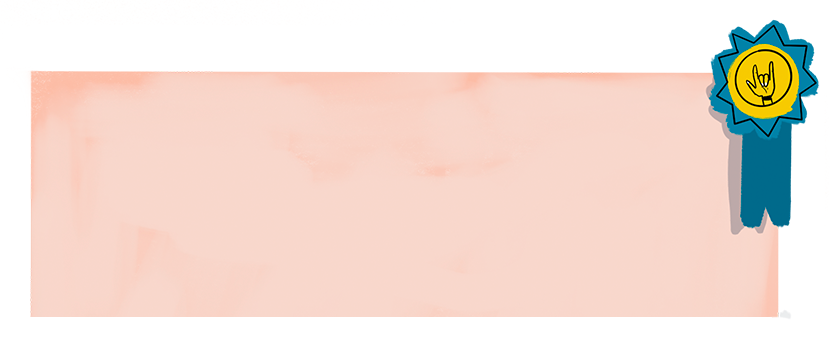
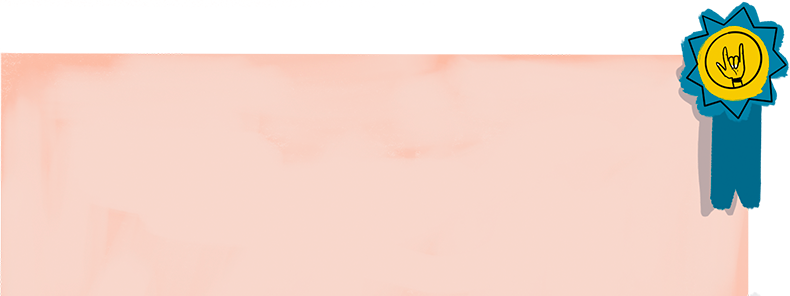
background Contribuciones

Changed region(s): [[0.0, 0.0, 1.0, 1.0]]

diff --git a/index.html b/index.html
@@ -181,9 +181,9 @@
     <section class="banner banner--contribuciones">
         <div class="banner__container">
             <p class="banner__title">Contribuciones</p>
-            <div class="banner__block banner--contribuciones__block banner--contibuciones__bg__img">
+            <div class="banner__block banner--contribuciones__block banner--contibuciones__bg">
                 <div class="" id="contibuciones-row">
-                    <div class="banner__paragraph font-12" id="contribuciones-paragraph1">
+                    <div class="banner__paragraph" id="contribuciones-paragraph1">
                         <p><span class="bold font-14">Kevin</span></p>
                         <ul>
                             <li>Voluntariado en DrupalCon Nashville</li>
@@ -215,7 +215,7 @@
                                 </ul>
                             </ul>
                     </div>
-                    <div class="banner__paragraph font-12" id="contribuciones-paragraph2">
+                    <div class="banner__paragraph" id="contribuciones-paragraph2">
                         <p><span class="bold font-14">Keren</span></p>
                         <ul>
                             <li>Contribución completando perfiles de mujeres costarricenses en política en Wikipedia.</li>
@@ -240,7 +240,7 @@
                             <li>Humpback-docs</li>
                         </ul>
                     </div>
-                    </div>
+                </div>
             </div>
         </div>
     </section>

diff --git a/css/style.css b/css/style.css
@@ -44,6 +44,19 @@
     .banner--clientes__logos{
         padding-bottom: 50px;
     }
+    .banner--contribuciones__block{
+        width: 100%;
+    }
+    #contribuciones-paragraph1,
+    #contribuciones-paragraph2 {
+        padding-top: 40px;
+    }
+    #contribuciones-paragraph1 {
+        margin-left: -60px;
+    }
+    #contribuciones-paragraph2 {
+        padding-left: -20px;
+    }
 }
 @media (max-width: 980px) {
     .banner{
@@ -289,6 +302,7 @@
 }
 .banner--contribuciones {
     background-color: #E2FCFF;
+    padding-bottom: 50px;
 }
 .banner--cancion {
     background-color: #FFD4E9;  
@@ -320,3 +334,20 @@
 .banner--futuro{
     background-color: #785E8F;
 }
+
+
+.banner--contibuciones__bg{
+    background-image: url("../img/contribu/badge1.png"),url("../img/contribu/badge3.png"),url("../img/contribu/badge2.png");
+    background-position: top center, bottom left, left;
+    background-repeat: no-repeat, no-repeat,repeat-y;
+    background-size: 100%, 97%, 97%;
+}
+
+/* .banner--contibuciones__bg{
+    background-image: url("../img/contribu/badge1.png"),
+    url("../img/contribu/badge2.png"),
+    url("../img/contribu/badge3.png");
+    background-repeat: no-repeat, repeat-y, no-repeat;
+    background-size: cover;
+    background-position: center;
+} */
